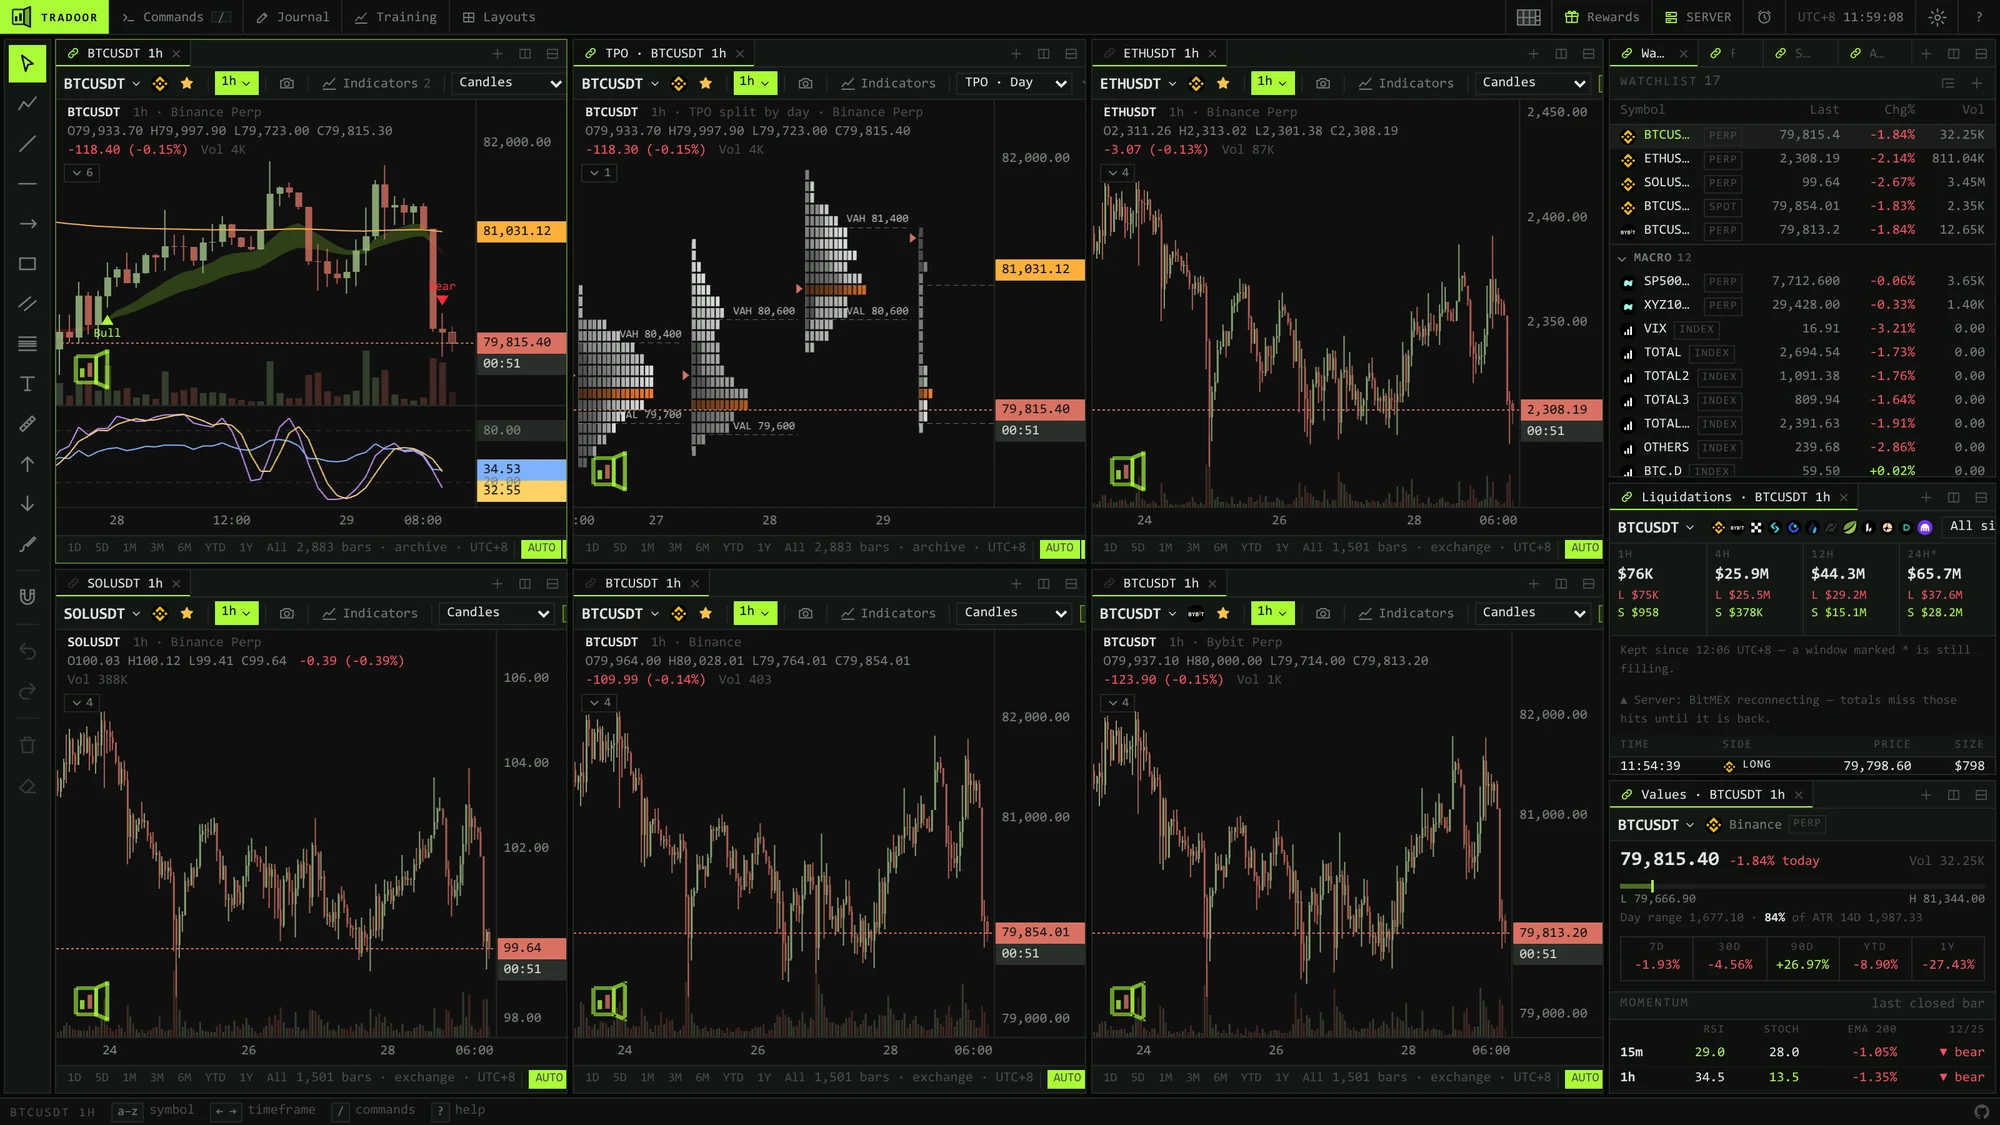
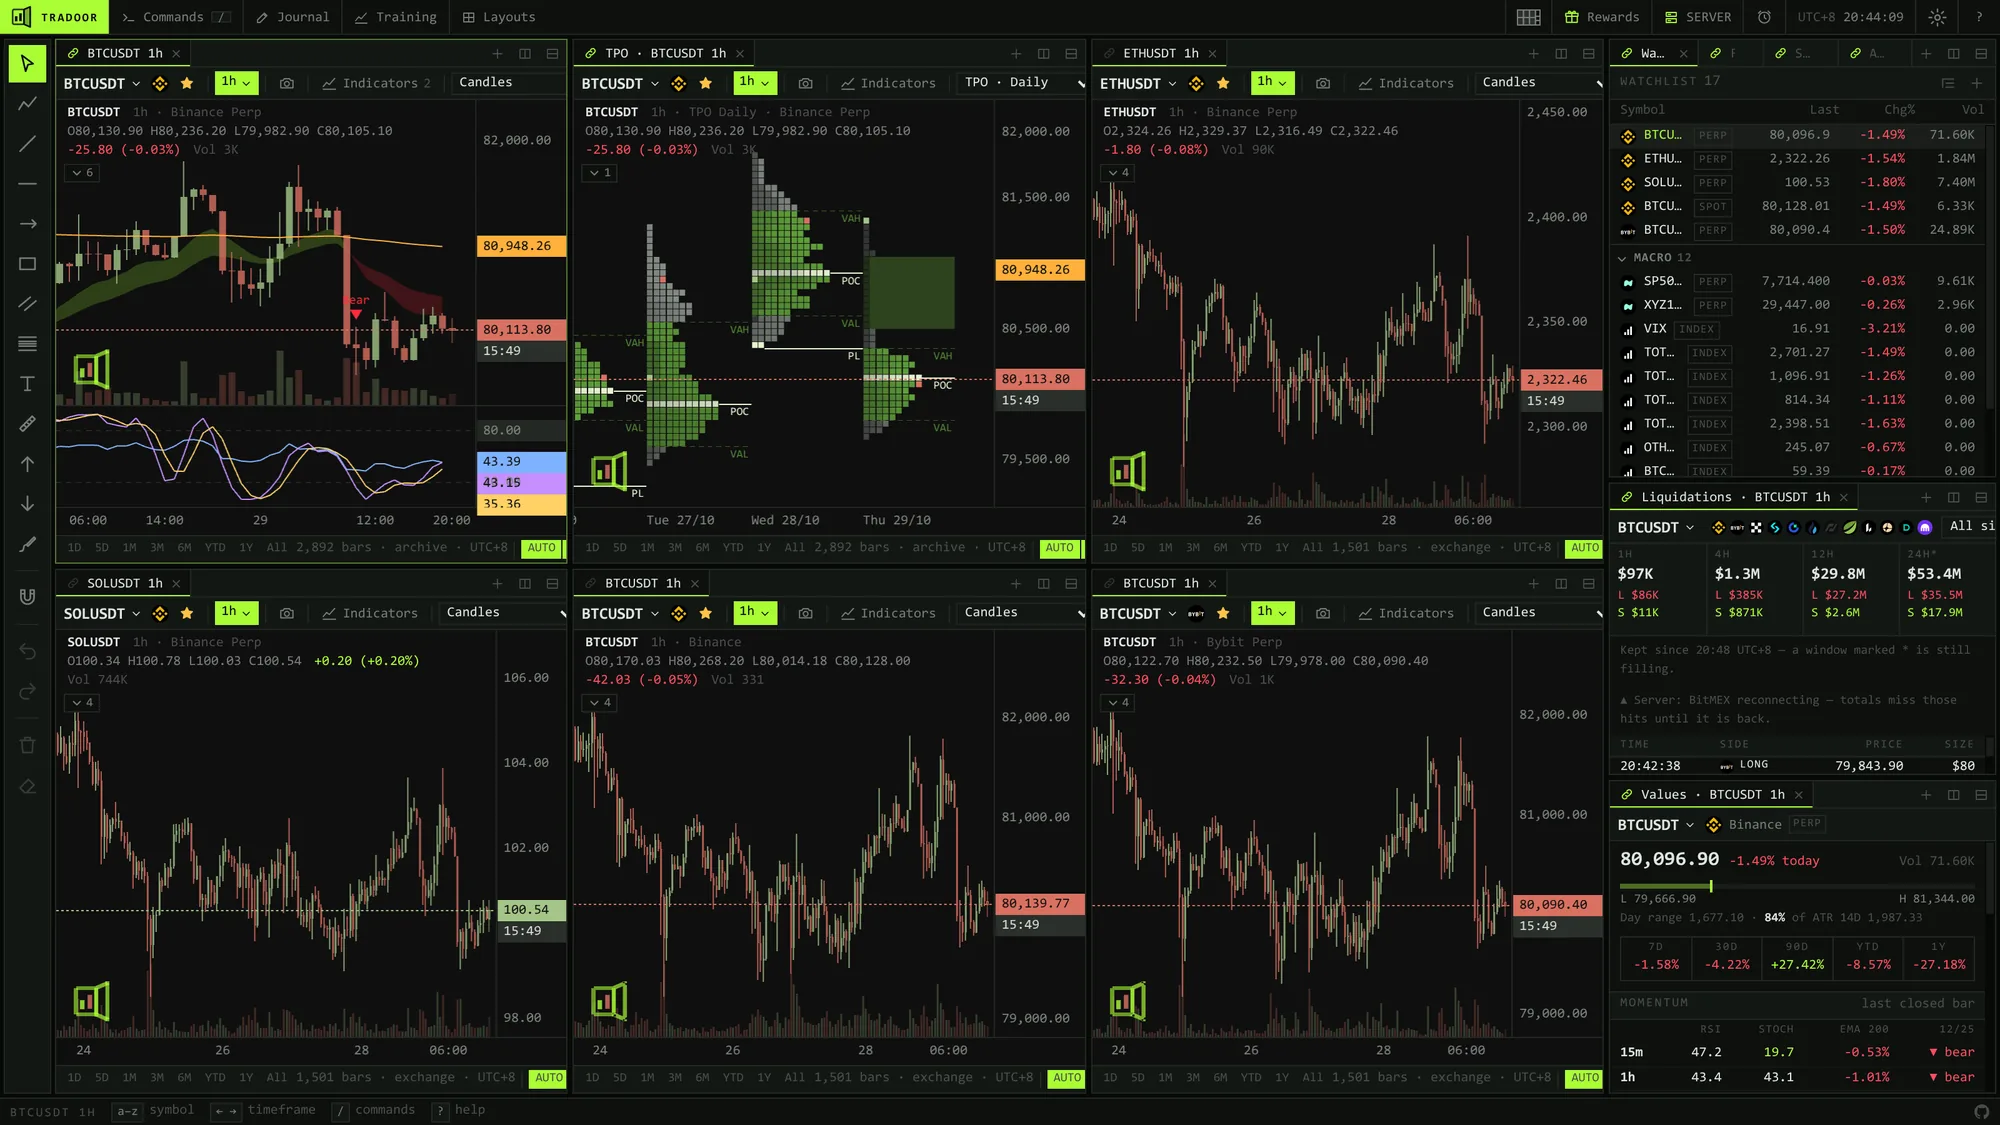
Show the new TPO in the README

diff --git a/README.md b/README.md
@@ -88,9 +88,9 @@ The DOM is the order book by price on Binance, Bybit, OKX, Bitget, Kraken, Hyper
 ### Market profile
 
 <p align="center">
-  <img src="docs/screenshots/tpo.webp" alt="BTCUSDT hourly bars as TPO profiles by day, each with its value area high and low marked" width="440">
+  <img src="docs/screenshots/tpo.webp" alt="BTCUSDT 30-minute bars as TPO profiles by day: square blocks side by side, each with its value area, point of control, poor highs and lows and single prints" width="100%">
   <br>
-  <sub>An hourly chart split into a TPO profile per day.</sub>
+  <sub>A profile a day of 30-minute brackets, square blocks side by side.</sub>
 </p>
 
 Any chart can be read as TPO profiles laid out as MMT lays them out — square blocks side by side, by day, week or month, Asia, London or New York, or sessions of your own — each with its value area, point of control, single prints, poor highs and lows and, beside it, its volume, in your theme's colours. Expand, merge or split a profile from its menu; drawings and indicators stay in place.
